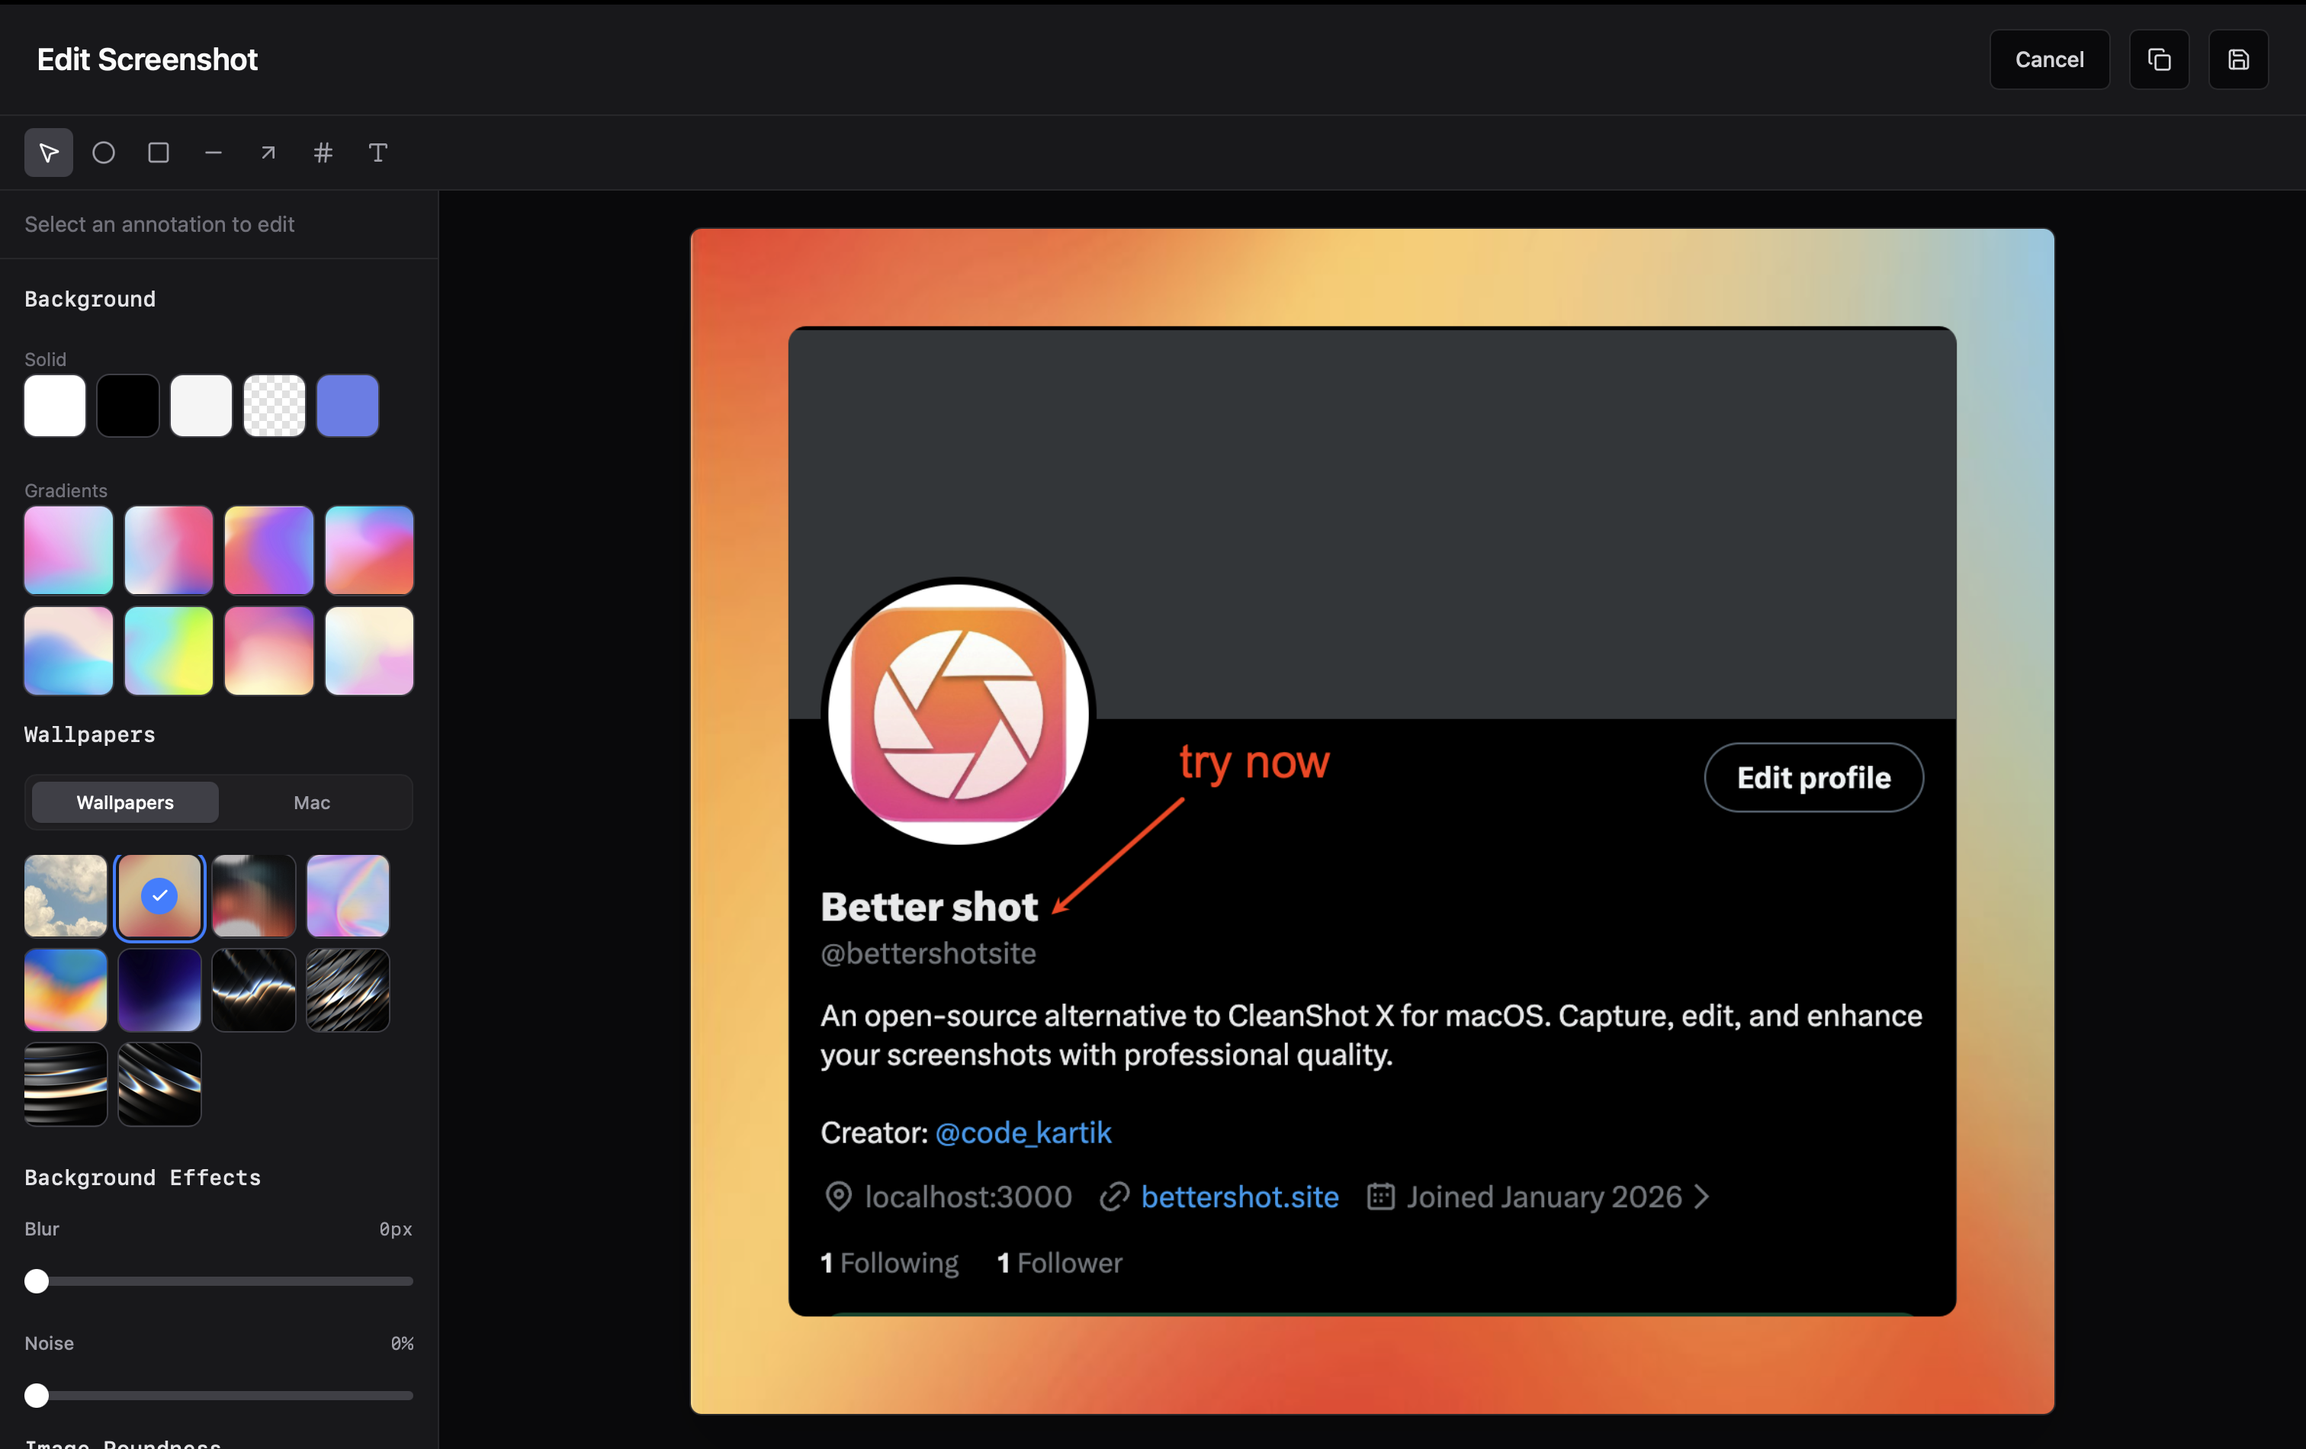
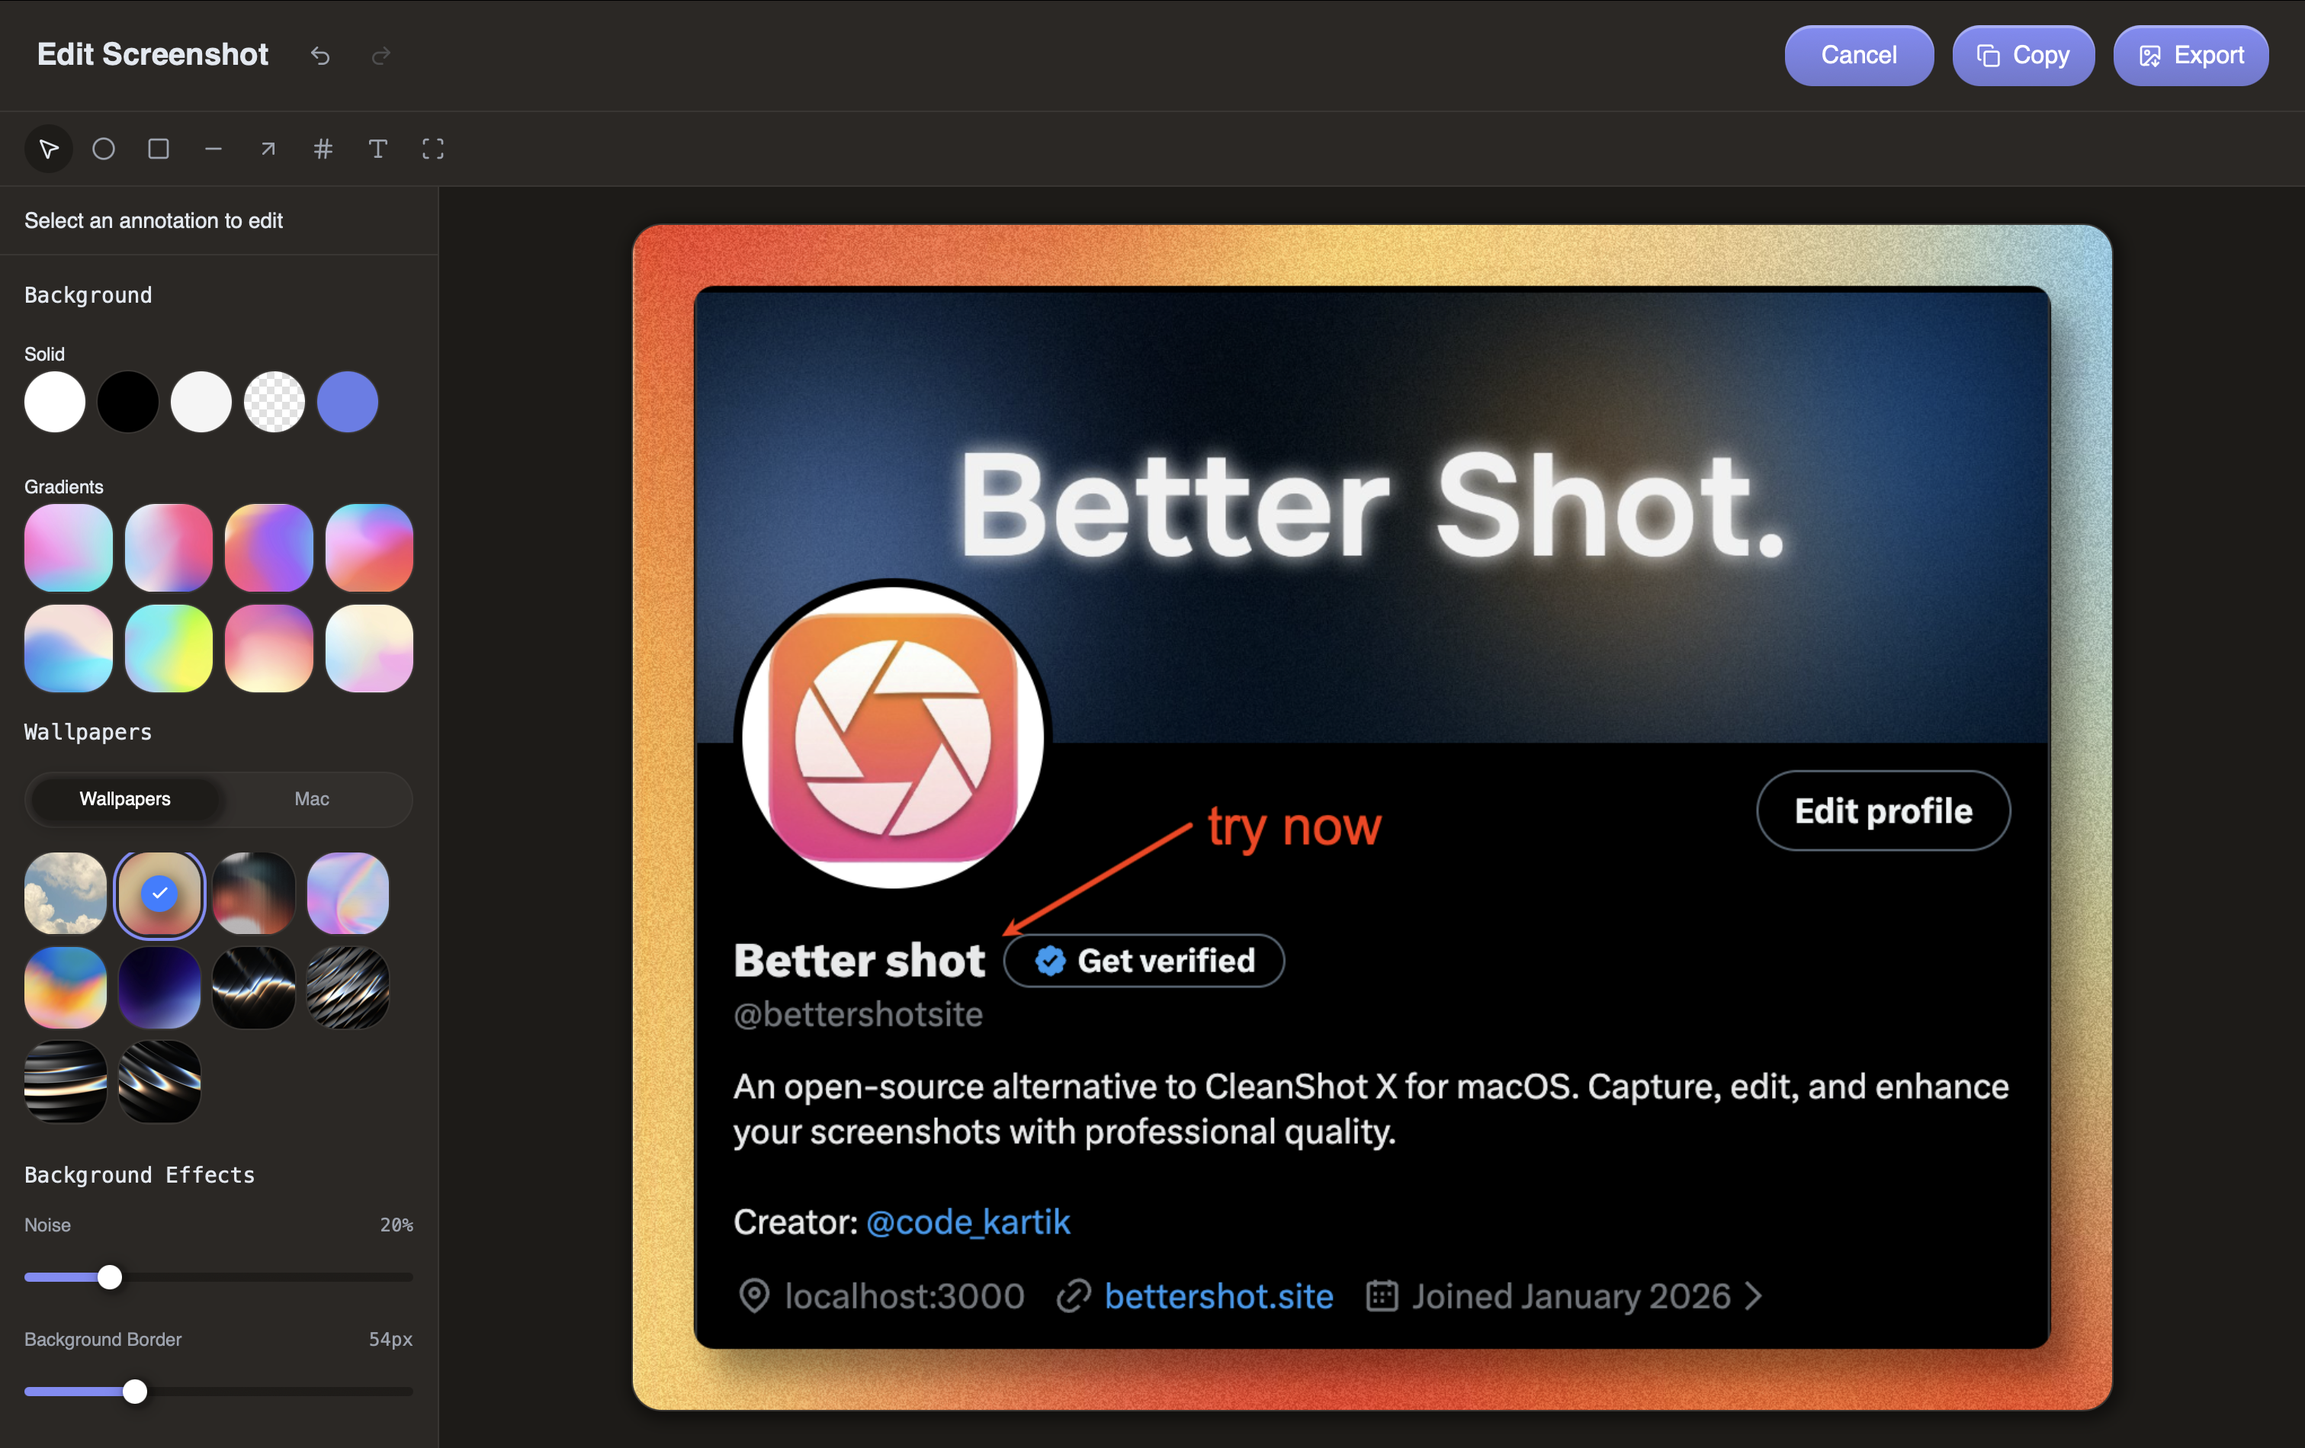
refactor: update button styles to CTA variant and large size across UI components

diff --git a/src/components/ui/button.tsx b/src/components/ui/button.tsx
@@ -1,32 +1,48 @@
 import * as React from "react";
+import { cva, type VariantProps } from "class-variance-authority";
+
 import { cn } from "@/lib/utils";
 
+const buttonVariants = cva(
+  "inline-flex items-center justify-center gap-2 whitespace-nowrap rounded-md text-sm font-medium transition-all disabled:pointer-events-none disabled:opacity-50 [&_svg]:pointer-events-none [&_svg:not([class*='size-'])]:size-4 shrink-0 [&_svg]:shrink-0 outline-none focus-visible:border-ring focus-visible:ring-ring/50 focus-visible:ring-[3px] aria-invalid:ring-destructive/20 dark:aria-invalid:ring-destructive/40 aria-invalid:border-destructive",
+  {
+    variants: {
+      variant: {
+        default: "bg-primary text-primary-foreground hover:bg-primary/90",
+        destructive:
+          "bg-destructive text-destructive-foreground hover:bg-destructive/90",
+        outline:
+          "border border-input bg-background shadow-xs hover:bg-accent hover:text-accent-foreground",
+        secondary:
+          "bg-secondary text-secondary-foreground hover:bg-secondary/80",
+        ghost:
+          "hover:bg-accent hover:text-accent-foreground dark:hover:bg-accent/50",
+        link: "text-primary underline-offset-4 hover:underline",
+        cta: "rounded-lg bg-gradient-to-b from-primary to-primary/80 text-white shadow-[0px_2px_0px_0px_rgba(255,255,255,0.3)_inset] hover:shadow-[0px_4px_0px_0px_rgba(255,255,255,0.3)_inset] hover:brightness-90 text-base font-medium",
+      },
+      size: {
+        default: "h-9 px-4 py-2 has-[>svg]:px-3",
+        sm: "h-8 rounded-md gap-1.5 px-3 has-[>svg]:px-2.5",
+        lg: "h-10 rounded-md px-6 has-[>svg]:px-4",
+        icon: "size-9",
+      },
+    },
+    defaultVariants: {
+      variant: "default",
+      size: "default",
+    },
+  }
+);
+
 export interface ButtonProps
-  extends React.ButtonHTMLAttributes<HTMLButtonElement> {
-  variant?: "default" | "destructive" | "outline" | "secondary" | "ghost" | "link";
-  size?: "default" | "sm" | "lg" | "icon";
-}
+  extends React.ButtonHTMLAttributes<HTMLButtonElement>,
+    VariantProps<typeof buttonVariants> {}
 
 const Button = React.forwardRef<HTMLButtonElement, ButtonProps>(
-  ({ className, variant = "default", size = "default", ...props }, ref) => {
+  ({ className, variant, size, ...props }, ref) => {
     return (
       <button
-        className={cn(
-          "inline-flex items-center justify-center whitespace-nowrap rounded-md text-sm font-medium ring-offset-background transition-colors focus-visible:outline-none focus-visible:ring-2 focus-visible:ring-ring focus-visible:ring-offset-2 disabled:pointer-events-none disabled:opacity-50",
-          {
-            "bg-primary text-primary-foreground hover:bg-primary/90": variant === "default",
-            "bg-destructive text-destructive-foreground hover:bg-destructive/90": variant === "destructive",
-            "border border-input bg-background hover:bg-accent hover:text-accent-foreground": variant === "outline",
-            "bg-secondary text-secondary-foreground hover:bg-secondary/80": variant === "secondary",
-            "hover:bg-accent hover:text-accent-foreground": variant === "ghost",
-            "text-primary underline-offset-4 hover:underline": variant === "link",
-            "h-10 px-4 py-2": size === "default",
-            "h-9 rounded-md px-3": size === "sm",
-            "h-11 rounded-md px-8": size === "lg",
-            "h-10 w-10": size === "icon",
-          },
-          className
-        )}
+        className={cn(buttonVariants({ variant, size, className }))}
         ref={ref}
         {...props}
       />
@@ -35,4 +51,4 @@ const Button = React.forwardRef<HTMLButtonElement, ButtonProps>(
 );
 Button.displayName = "Button";
 
-export { Button };
+export { Button, buttonVariants };

diff --git a/src/components/ImageEditor.tsx b/src/components/ImageEditor.tsx
@@ -2,7 +2,7 @@ import { useState, useRef, useEffect, useCallback } from "react";
 import { convertFileSrc, invoke } from "@tauri-apps/api/core";
 import { getCurrentWindow } from "@tauri-apps/api/window";
 import { toast } from "sonner";
-import { Copy, Save, Loader2, Undo2, Redo2 } from "lucide-react";
+import { Copy, Loader2, Undo2, Redo2, ImageDown } from "lucide-react";
 import { Button } from "@/components/ui/button";
 import { Card, CardContent } from "@/components/ui/card";
 import { Tooltip, TooltipContent, TooltipProvider, TooltipTrigger } from "@/components/ui/tooltip";
@@ -351,9 +351,9 @@ export function ImageEditor({ imagePath, onSave, onCancel }: ImageEditorProps) {
         </div>
         <div className="flex gap-3">
           <Button 
-            variant="outline" 
+            variant="cta"
+            size="lg"
             onClick={onCancel}
-            className="border-border text-foreground hover:bg-secondary hover:text-foreground"
           >
             Cancel
           </Button>
@@ -361,18 +361,18 @@ export function ImageEditor({ imagePath, onSave, onCancel }: ImageEditorProps) {
             <Tooltip>
               <TooltipTrigger asChild>
                 <Button 
-                  variant="outline" 
+                  variant="cta"
                   onClick={handleCopy} 
                   disabled={!imageLoaded || isSaving || isCopying}
-                  size="icon"
-                  className="border-border text-foreground hover:bg-secondary hover:text-foreground disabled:opacity-50"
+                  size="lg"
+                  className="disabled:opacity-50"
                 >
                   {isCopying ? (
                     <Loader2 className="size-4 animate-spin" aria-hidden="true" />
                   ) : (
                     <Copy className="size-4" aria-hidden="true" />
                   )}
-                  <span className="sr-only">Copy to clipboard</span>
+                  <span>Copy</span>
                 </Button>
               </TooltipTrigger>
               <TooltipContent>
@@ -382,18 +382,18 @@ export function ImageEditor({ imagePath, onSave, onCancel }: ImageEditorProps) {
             <Tooltip>
               <TooltipTrigger asChild>
                 <Button 
-                  variant="outline" 
+                  variant="cta"
                   onClick={handleSave} 
                   disabled={!imageLoaded || isSaving || isCopying}
-                  size="icon"
-                  className="border-border text-foreground hover:bg-secondary hover:text-foreground disabled:opacity-50"
+                  size="lg"
+                  className="disabled:opacity-50"
                 >
                   {isSaving ? (
                     <Loader2 className="size-4 animate-spin" aria-hidden="true" />
                   ) : (
-                    <Save className="size-4" aria-hidden="true" />
+                    <ImageDown className="size-4" aria-hidden="true" />
                   )}
-                  <span className="sr-only">Save image</span>
+                  <span>Export</span>
                 </Button>
               </TooltipTrigger>
               <TooltipContent>

diff --git a/src/App.tsx b/src/App.tsx
@@ -634,7 +634,7 @@ function App() {
                 v{__APP_VERSION__}
               </span>
             </div>
-            <p className="text-muted-foreground text-sm text-pretty">Professional screenshot workflow</p>
+            <p className="text-muted-foreground text-sm text-pretty">Capture, edit, and enhance your screenshots with professional quality.</p>
           </div>
         </div>
 
@@ -644,7 +644,9 @@ function App() {
               <Button
                 onClick={() => handleCapture("region")}
                 disabled={isCapturing}
-                className="bg-secondary hover:bg-muted text-foreground py-3 font-medium disabled:opacity-50 disabled:cursor-not-allowed border border-border transition-all flex items-center justify-center gap-2"
+                variant="cta"
+                size="lg"
+                className="py-3 disabled:opacity-50 disabled:cursor-not-allowed"
               >
                 <Crop className="size-4" aria-hidden="true" />
                 Region
@@ -652,7 +654,9 @@ function App() {
               <Button
                 onClick={() => handleCapture("fullscreen")}
                 disabled={isCapturing}
-                className="bg-secondary hover:bg-muted text-foreground py-3 font-medium disabled:opacity-50 disabled:cursor-not-allowed border border-border transition-all flex items-center justify-center gap-2"
+                variant="cta"
+                size="lg"
+                className="py-3 disabled:opacity-50 disabled:cursor-not-allowed"
               >
                 <Monitor className="size-4" aria-hidden="true" />
                 Screen
@@ -660,7 +664,9 @@ function App() {
               <Button
                 onClick={() => handleCapture("window")}
                 disabled={isCapturing}
-                className="bg-secondary hover:bg-muted text-foreground py-3 font-medium disabled:opacity-50 disabled:cursor-not-allowed border border-border transition-all flex items-center justify-center gap-2"
+                variant="cta"
+                size="lg"
+                className="py-3 disabled:opacity-50 disabled:cursor-not-allowed"
               >
                 <AppWindowMac className="size-4" aria-hidden="true" />
                 Window

diff --git a/src/components/preferences/KeyboardShortcutManager.tsx b/src/components/preferences/KeyboardShortcutManager.tsx
@@ -233,10 +233,9 @@ export function KeyboardShortcutManager({ onShortcutsChange }: KeyboardShortcutM
         <label className="text-sm font-medium text-foreground">Keyboard Shortcuts</label>
         <Button
           type="button"
-          variant="outline"
-          size="sm"
+          variant="cta"
+          size="lg"
           onClick={handleAdd}
-          className="border-border text-foreground hover:bg-secondary hover:text-foreground"
         >
           <Plus className="size-3 mr-1" aria-hidden="true" />
           Add
@@ -259,10 +258,9 @@ export function KeyboardShortcutManager({ onShortcutsChange }: KeyboardShortcutM
                         {recordedShortcut ? formatShortcut(recordedShortcut) : "Press shortcut..."}
                       </button>
                       <Button
-                        size="sm"
-                        variant="ghost"
+                        variant="cta"
+                        size="lg"
                         onClick={handleCancelRecording}
-                        className="text-foreground hover:text-foreground"
                       >
                         Cancel
                       </Button>
@@ -296,10 +294,9 @@ export function KeyboardShortcutManager({ onShortcutsChange }: KeyboardShortcutM
                   </Button>
                   {shortcut.id.startsWith("custom-") && (
                     <Button
-                      size="sm"
-                      variant="ghost"
+                      variant="cta"
+                      size="lg"
                       onClick={() => handleDelete(shortcut.id)}
-                      className="text-red-400 hover:text-red-300"
                       aria-label="Delete shortcut"
                     >
                       <Trash2 className="size-3" aria-hidden="true" />

diff --git a/src/components/onboarding/OnboardingFlow.tsx b/src/components/onboarding/OnboardingFlow.tsx
@@ -327,7 +327,6 @@ export function OnboardingFlow({ onComplete }: OnboardingFlowProps) {
               </div>
               <div className="flex items-center gap-3">
                 <Button
-                  variant="ghost"
                   onClick={handleSkip}
                   className="text-muted-foreground hover:text-foreground"
                 >
@@ -335,7 +334,8 @@ export function OnboardingFlow({ onComplete }: OnboardingFlowProps) {
                 </Button>
                 <Button
                   onClick={handleNext}
-                  className="bg-blue-600 hover:bg-blue-700 text-white"
+                  variant="cta"
+                  size="lg"
                 >
                   {isLastStep ? "Get Started" : "Next"}
                 </Button>

diff --git a/src/components/UpdateDialog.tsx b/src/components/UpdateDialog.tsx
@@ -176,7 +176,7 @@ export function UpdateDialog({
               <Button variant="ghost" onClick={handleSkip}>
                 Later
               </Button>
-              <Button onClick={handleUpdate}>
+              <Button variant="cta" size="lg" onClick={handleUpdate}>
                 <Download className="mr-2 size-4" />
                 Update
               </Button>
@@ -193,7 +193,7 @@ export function UpdateDialog({
               <Button variant="ghost" onClick={handleSkip}>
                 Close
               </Button>
-              <Button onClick={handleUpdate}>Try Again</Button>
+              <Button variant="cta" size="lg" onClick={handleUpdate}>Try Again</Button>
             </>
           )}
         </DialogFooter>

diff --git a/src/components/preferences/PreferencesPage.tsx b/src/components/preferences/PreferencesPage.tsx
@@ -239,11 +239,11 @@ export function PreferencesPage({ onBack, onSettingsChange, onCheckForUpdates }:
                 <p className="text-xs text-foreground0">Version {__APP_VERSION__}</p>
               </div>
               <Button
-                variant="outline"
-                size="sm"
+                variant="cta"
+                size="lg"
                 onClick={handleCheckForUpdates}
                 disabled={isCheckingUpdates}
-                className="border-border bg-secondary text-foreground hover:bg-muted hover:text-card-foreground"
+                className="disabled:opacity-50"
               >
                 {isCheckingUpdates ? (
                   <>

diff --git a/src/components/preferences/BackgroundImageSelector.tsx b/src/components/preferences/BackgroundImageSelector.tsx
@@ -148,9 +148,8 @@ export function BackgroundImageSelector({ onImageSelect }: BackgroundImageSelect
           />
           <Button
             type="button"
-            variant="outline"
-            size="sm"
-            className="border-border text-foreground hover:bg-secondary hover:text-foreground"
+            variant="cta"
+            size="lg"
             onClick={() => fileInputRef.current?.click()}
           >
             <Upload className="size-3 mr-1" aria-hidden="true" />
